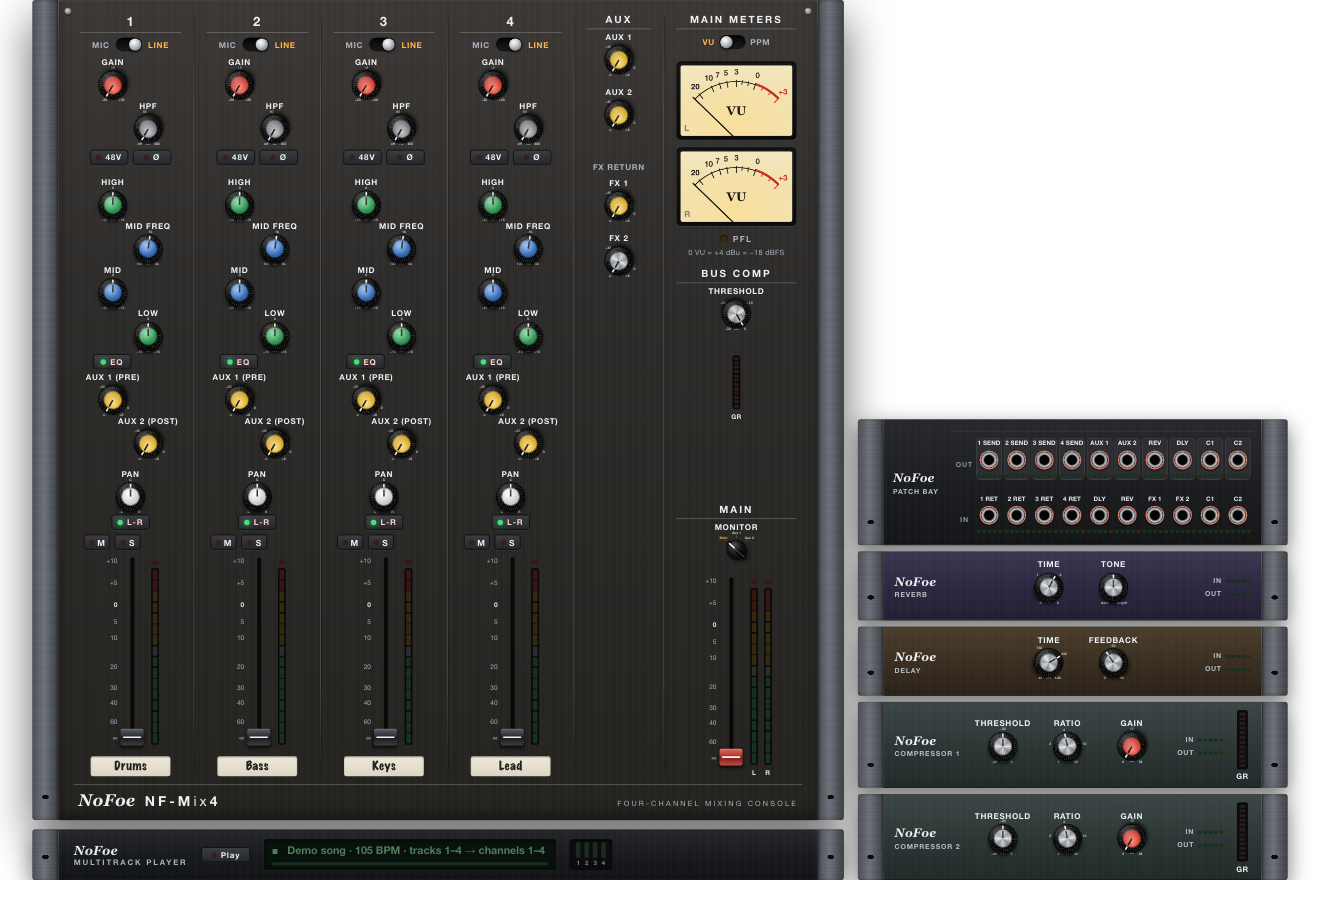
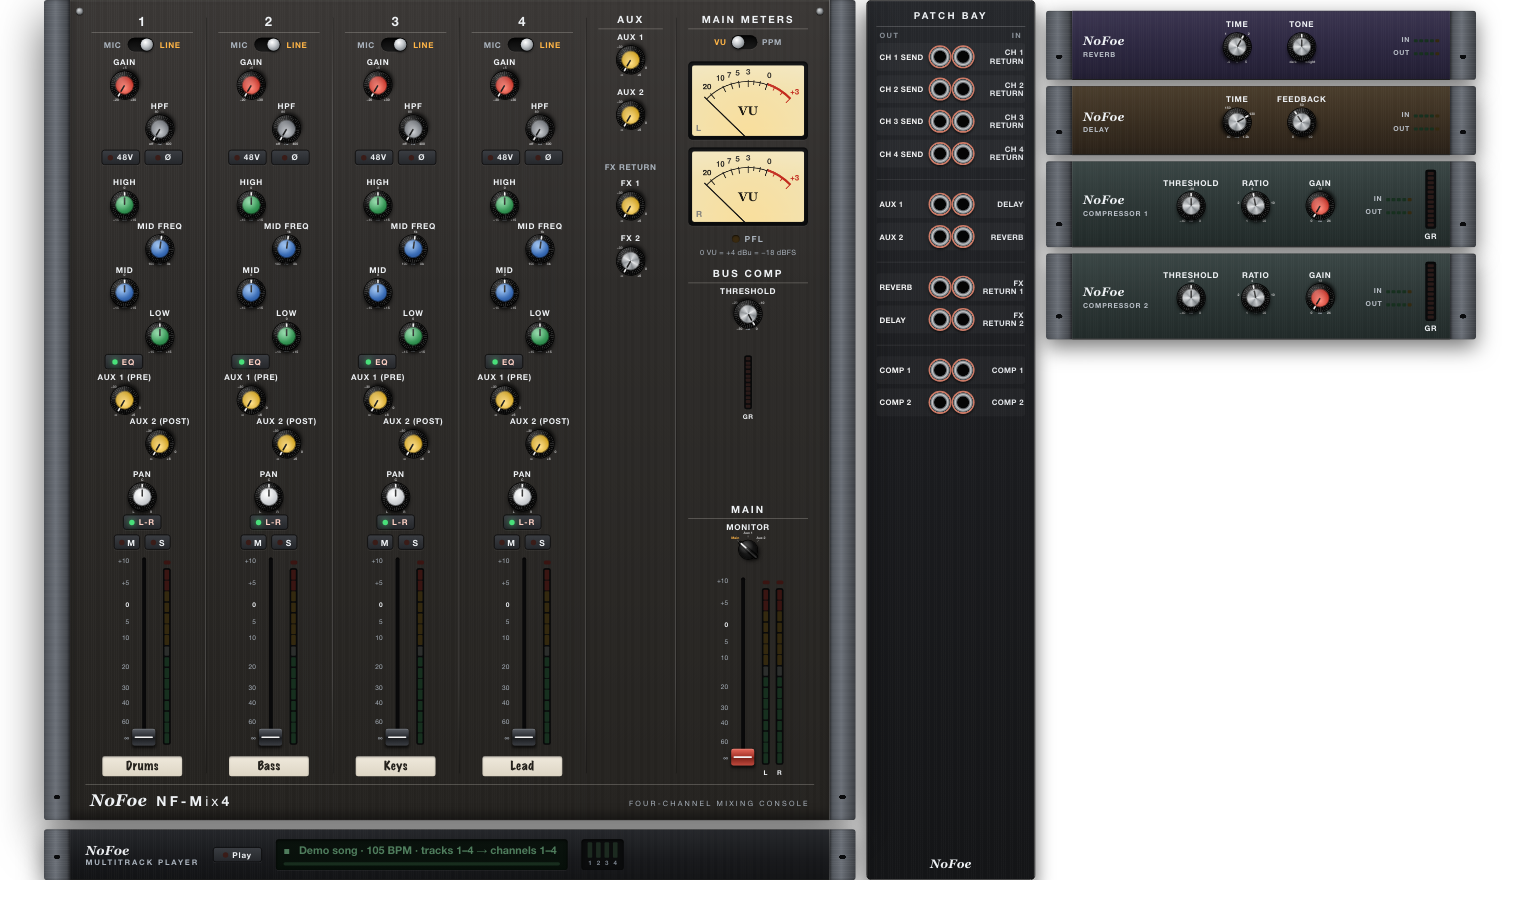
NF-Mix4: vertical patch bay beside the desk, full labels, no patch meters
- The patch bay is a tall unit between the desk and the screens: one row
  per pair, the output on the left and the input it usually feeds on the
  right (Ch 1 Send / Ch 1 Return ... Aux 2 / Reverb, Reverb / FX Return 1
  ... Comp 1 / Comp 1), in groups, with full labels.
- Patch points have no meters (the outboard units keep their In/Out
  lights).
- Mute and Solo centred; the Signal Flow screen a little smaller; the
  rack sits right under the screens.

Tested in headless Chrome: presets patch through the bay (reverb,
delay, both compressors), a howl is caught, all pages load.

diff --git a/studio/js/units/nf4.js b/studio/js/units/nf4.js
@@ -23,13 +23,13 @@ const hz = (v) => (v >= 1000 ? (v / 1000).toFixed(v < 10000 ? 1 : 0) + ' kHz' : 
 
 // Patch points. An input socket is a setting naming the output plugged into it ('' = nothing),
 // so cables save and reset with the rest of the settings (see ../../js/cables.js).
-// (label: as printed on the patch bay, whose rows say Out and In; name: in full)
+// (label: as printed on the patch bay; name: in full)
 export const OUTPUTS = {
-  'ch1.send': { name: 'Channel 1 Send', label: '1 Send' }, 'ch2.send': { name: 'Channel 2 Send', label: '2 Send' },
-  'ch3.send': { name: 'Channel 3 Send', label: '3 Send' }, 'ch4.send': { name: 'Channel 4 Send', label: '4 Send' },
+  'ch1.send': { name: 'Channel 1 Send', label: 'Ch 1 Send' }, 'ch2.send': { name: 'Channel 2 Send', label: 'Ch 2 Send' },
+  'ch3.send': { name: 'Channel 3 Send', label: 'Ch 3 Send' }, 'ch4.send': { name: 'Channel 4 Send', label: 'Ch 4 Send' },
   'aux1.out': { name: 'Aux 1', label: 'Aux 1' }, 'aux2.out': { name: 'Aux 2', label: 'Aux 2' },
-  'rev.out': { name: 'Reverb Out', label: 'Rev' }, 'dl.out': { name: 'Delay Out', label: 'Dly' },
-  'oc.out': { name: 'Compressor 1 Out', label: 'C1' }, 'oc2.out': { name: 'Compressor 2 Out', label: 'C2' },
+  'rev.out': { name: 'Reverb Out', label: 'Reverb' }, 'dl.out': { name: 'Delay Out', label: 'Delay' },
+  'oc.out': { name: 'Compressor 1 Out', label: 'Comp 1' }, 'oc2.out': { name: 'Compressor 2 Out', label: 'Comp 2' },
 };
 Object.values(OUTPUTS).forEach((o) => { o.audio = true; });
 const fullName = (out) => (OUTPUTS[out] ? OUTPUTS[out].name : 'nothing');
@@ -66,7 +66,7 @@ function channel(n) {
       marks: [[100, '100'], [1000, '1k'], [8000, '8k']] },
     [k + 'lf']: eqGain('Low'),
     [k + 'eq']: onOff('EQ in', 'EQ', 'on'),
-    [k + 'ret']: jack(`${n} Ret`), // the insert point's return, on the patch bay (its Send is an output)
+    [k + 'ret']: jack(`Ch ${n} Return`), // the insert point's return, on the patch bay (its Send is an output)
     [k + 'aux1']: send('Aux 1 (pre)'),
     [k + 'aux2']: send('Aux 2 (post)'),
     [k + 'pan']: { type: 'cont', label: 'Pan', min: -1, max: 1, def: 0, curve: 'lin', small: true,
@@ -84,9 +84,9 @@ export const PARAMS = {
   // the Multitrack Player (a separate unit)
   'tape.play': { type: 'step', ui: 'led', button: 'Play', label: 'Play / Stop', def: 'stop', options: [{ v: 'stop', label: 'Stopped' }, { v: 'play', label: 'Playing' }] },
   // two FX Returns: each a plain input (on the patch bay) with one level pot
-  'fxr.in': jack('FX 1'),
+  'fxr.in': jack('FX Return 1'),
   'fxr.level': send('FX 1', 0),
-  'fxr2.in': jack('FX 2'),
+  'fxr2.in': jack('FX Return 2'),
   'fxr2.level': send('FX 2', 0),
   // aux masters (their outputs are sockets)
   'aux1.master': send('Aux 1', 0),
@@ -102,25 +102,25 @@ export const PARAMS = {
 
   // ---- outboard (separate units, patched in with cables) ----
   // Reverb: 100% wet (the dry sound stays on the desk)
-  'rev.in': jack('Rev'),
+  'rev.in': jack('Reverb'),
   'rev.time': { type: 'cont', label: 'Time', min: 0.4, max: 5, def: 1.8, curve: 'log', unit: 's', small: true, fmt: (v) => v.toFixed(1) + ' s',
     marks: [[0.4, '.4'], [1, '1'], [2, '2'], [5, '5']] },
   'rev.tone': { type: 'cont', label: 'Tone', min: 0, max: 1, def: 0.5, curve: 'lin', small: true, fmt: (v) => (v < 0.34 ? 'dark' : v > 0.66 ? 'bright' : 'natural'),
     marks: [[0, 'dark'], [1, 'bright']] },
   // Compressor: for a channel's insert point (fixed 10 ms attack, 150 ms release)
-  'oc.in': jack('C1'),
+  'oc.in': jack('Comp 1'),
   'oc.thresh': { type: 'cont', label: 'Threshold', min: -40, max: 0, def: -20, curve: 'lin', unit: 'dB', small: true, fmt: fmtDb, marks: [[-40, '−40'], [-20, '−20'], [0, '0']] },
   'oc.ratio': { type: 'cont', label: 'Ratio', min: 1, max: 20, def: 4, curve: 'log', unit: ':1', small: true,
     fmt: (v) => (v >= 19.5 ? '20:1 (heavy limiting)' : v >= 9.95 ? Math.round(v) + ':1 (limiting)' : v.toFixed(1) + ':1'), marks: [[1, '1'], [2, '2'], [4, '4'], [10, '10'], [20, '20']] },
   'oc.gain': { type: 'cont', label: 'Gain', min: 0, max: 24, def: 0, curve: 'lin', unit: 'dB', small: true, fmt: fmtDb, marks: [[0, '0'], [12, '12'], [24, '24']] },
   // Compressor 2: the same again, for a second channel
-  'oc2.in': jack('C2'),
+  'oc2.in': jack('Comp 2'),
   'oc2.thresh': { type: 'cont', label: 'Threshold', min: -40, max: 0, def: -20, curve: 'lin', unit: 'dB', small: true, fmt: fmtDb, marks: [[-40, '−40'], [-20, '−20'], [0, '0']] },
   'oc2.ratio': { type: 'cont', label: 'Ratio', min: 1, max: 20, def: 4, curve: 'log', unit: ':1', small: true,
     fmt: (v) => (v >= 19.5 ? '20:1 (heavy limiting)' : v >= 9.95 ? Math.round(v) + ':1 (limiting)' : v.toFixed(1) + ':1'), marks: [[1, '1'], [2, '2'], [4, '4'], [10, '10'], [20, '20']] },
   'oc2.gain': { type: 'cont', label: 'Gain', min: 0, max: 24, def: 0, curve: 'lin', unit: 'dB', small: true, fmt: fmtDb, marks: [[0, '0'], [12, '12'], [24, '24']] },
   // Delay: one echo, 100% wet; Feedback brings it round again (repeats)
-  'dl.in': jack('Dly'),
+  'dl.in': jack('Delay'),
   'dl.time': { type: 'cont', label: 'Time', min: 40, max: 1200, def: 430, curve: 'log', unit: 'ms', small: true, fmt: (v) => Math.round(v) + ' ms',
     marks: [[40, '40'], [150, '150'], [430, '430'], [1200, '1.2k']] },
   'dl.fb': { type: 'cont', label: 'Feedback', min: 0, max: 0.9, def: 0.35, curve: 'lin', small: true, fmt: (v) => Math.round(v * 100) + '%',
@@ -154,12 +154,14 @@ export const LAYOUT = [
    { id: 'main', title: 'Main', rows: [['mon.src']], fader: 'main.fader', meters: [['mainL', 'L', 'mainmeter'], ['mainR', 'R', 'mainmeter']] }],
 ];
 
-// The patch bay: every patch point in one place, outputs on the top row and inputs on the bottom,
-// so the usual patches are short hops straight down (a channel's Send over its Return, Aux 2 over
-// the Reverb's In, the Reverb's Out over FX Return 1...).
-export const PATCHBAY = { id: 'bay', title: 'Patch Bay', rows: [
-  ['#Out', 'out:ch1.send', 'out:ch2.send', 'out:ch3.send', 'out:ch4.send', 'out:aux1.out', 'out:aux2.out', 'out:rev.out', 'out:dl.out', 'out:oc.out', 'out:oc2.out'],
-  ['#In', 'ch1.ret', 'ch2.ret', 'ch3.ret', 'ch4.ret', 'dl.in', 'rev.in', 'fxr.in', 'fxr2.in', 'oc.in', 'oc2.in'],
+// The patch bay: a tall unit beside the desk with every patch point, one row per pair: an output
+// on the left, the input it usually feeds on the right (a channel's Send beside its Return, Aux 2
+// beside the Reverb's In, the Reverb's Out beside FX Return 1...). null: a gap between groups.
+export const PATCHBAY = { id: 'bay', title: 'Patch Bay', pairs: [
+  ['out:ch1.send', 'ch1.ret'], ['out:ch2.send', 'ch2.ret'], ['out:ch3.send', 'ch3.ret'], ['out:ch4.send', 'ch4.ret'], null,
+  ['out:aux1.out', 'dl.in'], ['out:aux2.out', 'rev.in'], null,
+  ['out:rev.out', 'fxr.in'], ['out:dl.out', 'fxr2.in'], null,
+  ['out:oc.out', 'oc.in'], ['out:oc2.out', 'oc2.in'],
 ] };
 // The separate units: the outboard rack (beside the screens) and the Multitrack Player (under the
 // desk). No sockets on them (they are on the patch bay); io: their little In and Out meters.

diff --git a/studio/css/studio.css b/studio/css/studio.css
@@ -262,7 +262,7 @@ body[data-synth="nf4"] .strip .scribble { width: 104px; align-self: center; }
 
 /* ---- NF-Mix4: the console on the left with the Multitrack Player under it; the screens on the
    right, one above the other, with the outboard rack (reverb, compressor) under them ---- */
-body[data-synth="nf4"] #stage { display: grid; grid-template-columns: auto 560px; grid-template-areas: "synth scopes" "synth rack"; column-gap: 18px; align-items: start; }
+body[data-synth="nf4"] #stage { display: grid; grid-template-columns: auto auto 560px; grid-template-areas: "synth bay scopes" "synth bay rack"; grid-template-rows: auto 1fr; column-gap: 14px; align-items: start; }
 body[data-synth="nf4"] .console-col { grid-area: synth; grid-row: 1 / span 2; display: flex; flex-direction: column; }
 body[data-synth="nf4"] .synth { grid-area: synth; }
 body[data-synth="nf4"] .scope-unit { grid-area: scopes; flex-direction: column; width: auto; margin: 0; padding: 14px 16px 12px; gap: 10px; align-items: stretch; }
@@ -402,8 +402,28 @@ body[data-synth="nf4"] .scope-controls { display: none; }
 .io-row span { width: 24px; text-align: right; }
 .outboard-face .section { grid-template-columns: 1fr; }
 /* the console's screens: the signal flow large, the EQ small (room for the rack and patch bay) */
-body[data-synth="nf4"] .scope-unit .scope-screen-wrap:first-child .bezel { height: 330px; }
+body[data-synth="nf4"] .scope-unit .scope-screen-wrap:first-child .bezel { height: 285px; }
 body[data-synth="nf4"] .scope-unit .scope-screen-wrap:last-child .bezel { height: 180px; }
 /* 48 V and Ø: centred under the HPF, a little space before the EQ */
 body[data-synth="nf4"] .zigzag .stack-cell:has([data-param$=".p48"]) { justify-self: center; width: 100%; justify-content: center; margin: 6px 0 16px; }
 .ob-name { white-space: nowrap; letter-spacing: 0.12em; }
+
+/* ---- the patch bay: a tall black unit between the desk and the screens, a row per pair ---- */
+.patchbay-v { grid-area: bay; grid-row: 1 / span 2; align-self: stretch; display: flex; flex-direction: column; width: 220px; padding: 12px 12px 10px; box-sizing: border-box;
+  background: repeating-linear-gradient(90deg, rgba(255,255,255,0.02) 0 1px, transparent 1px 3px), linear-gradient(180deg, #26282c, #1b1c1f 50%, #141517);
+  border-radius: 6px; border: 1px solid #000; box-shadow: inset 0 1px 0 rgba(255,255,255,0.1), 0 14px 22px rgba(0,0,0,0.55); }
+.pb-head { text-align: center; font: 800 12.5px var(--font); letter-spacing: 0.24em; text-transform: uppercase; color: #eef1f4; padding-bottom: 6px; border-bottom: 1px solid rgba(255,255,255,0.18); }
+.pb-cols { display: flex; justify-content: space-between; padding: 6px 4px 4px; font: 800 9.5px var(--font); letter-spacing: 0.2em; text-transform: uppercase; color: #8d949c; }
+.pb-rows { display: flex; flex-direction: column; gap: 6px; padding: 0; }
+.pb-row { display: flex; justify-content: space-between; align-items: center; padding: 3px 4px; border-radius: 4px; background: rgba(255,255,255,0.03); }
+.pb-gap { height: 10px; border-bottom: 1px solid rgba(255,255,255,0.1); margin-bottom: 8px; }
+.patchbay-v .jack-cell { width: auto; flex-direction: row; gap: 6px; padding: 0; background: none; box-shadow: none; }
+.patchbay-v .jack-cell.in { flex-direction: row-reverse; }
+.patchbay-v .jack-label { font-size: 10px; letter-spacing: 0.04em; white-space: nowrap; color: #e3e6ea; width: 58px; line-height: 1.1; white-space: normal; }
+.patchbay-v .jack-cell.out .jack-label { text-align: left; }
+.patchbay-v .jack-cell.in .jack-label { text-align: right; }
+.patchbay-v .jack-lamp { display: none !important; } /* (patch points have no meters) */
+.pb-foot { margin-top: auto; padding-top: 8px; text-align: center; color: #eef1f4; }
+.pb-foot .brand-mark { font-size: 16px; }
+/* Mute and Solo centred */
+body[data-synth="nf4"] .zigzag .stack-cell:has([data-param$=".mute"]) { justify-self: center; width: 100%; justify-content: center; }

diff --git a/js/main.js b/js/main.js
@@ -960,19 +960,23 @@ function buildOutboard() {
   };
   const mini = () => { const m = document.createElement('div'); m.className = 'mini-meter'; m.innerHTML = '<i></i>'.repeat(5); return m; };
   const minis = []; // [key, the meter]
+  // the patch bay: a tall unit standing between the desk and the screens, one row per pair
+  // (an output on the left, the input it usually feeds on the right), with room for full labels
   if (SYNTH.PATCHBAY && cables) {
     const B = SYNTH.PATCHBAY;
-    const face = unitOf('patchbay', `<div class="ob-brand" data-help="section:${B.id}"><span class="brand-mark">NoFoe</span><span class="ob-name">${B.title.toUpperCase()}</span></div>`);
-    const bay = document.createElement('div');
-    bay.className = 'section bay';
-    bay.dataset.section = B.id;
-    bay.appendChild(cables.buildStrip(B.rows));
-    face.appendChild(bay);
-    sections[B.id] = bay;
-    bay.querySelectorAll('.jack-cell').forEach((cell) => {
-      const key = cell.dataset.param || (cell.dataset.help || '').replace(/^out:/, '');
-      const m = mini(); cell.appendChild(m); minis.push([key, m]);
+    const unit = document.createElement('section');
+    unit.className = 'patchbay-v';
+    unit.innerHTML = `<div class="pb-head" data-help="section:${B.id}">${B.title}</div><div class="pb-cols"><span>Out</span><span>In</span></div><div class="pb-rows section" data-section="${B.id}"></div>
+      <div class="pb-foot"><span class="brand-mark">NoFoe</span></div>`;
+    const rows = unit.querySelector('.pb-rows');
+    B.pairs.forEach((pair) => {
+      const row = document.createElement('div');
+      row.className = pair ? 'pb-row' : 'pb-gap';
+      if (pair) row.append(cables.makeOut(pair[0].slice(4)), cables.makeIn(pair[1]));
+      rows.appendChild(row);
     });
+    sections[B.id] = rows;
+    document.getElementById('stage').appendChild(unit);
   }
   SYNTH.OUTBOARD.forEach((sec) => {
     const face = unitOf('ob-' + sec.id, `<div class="ob-brand" data-help="section:${sec.id}"><span class="brand-mark">NoFoe</span><span class="ob-name">${sec.brandSub}</span></div>`);

diff --git a/js/startMenu.js b/js/startMenu.js
@@ -7,7 +7,7 @@ import { SYNTHS, SYNTH, SYNTH_CHOSEN, nameHtml } from './params.js';
 
 // Changed by tools/make-previews.sh each time the pictures are re-captured, so browsers fetch
 // the new pictures instead of showing ones they have kept from before.
-const PREVIEW_VERSION = '202611271347';
+const PREVIEW_VERSION = '202611271359';
 
 export class StartMenu {
   constructor({ skip = false } = {}) {
